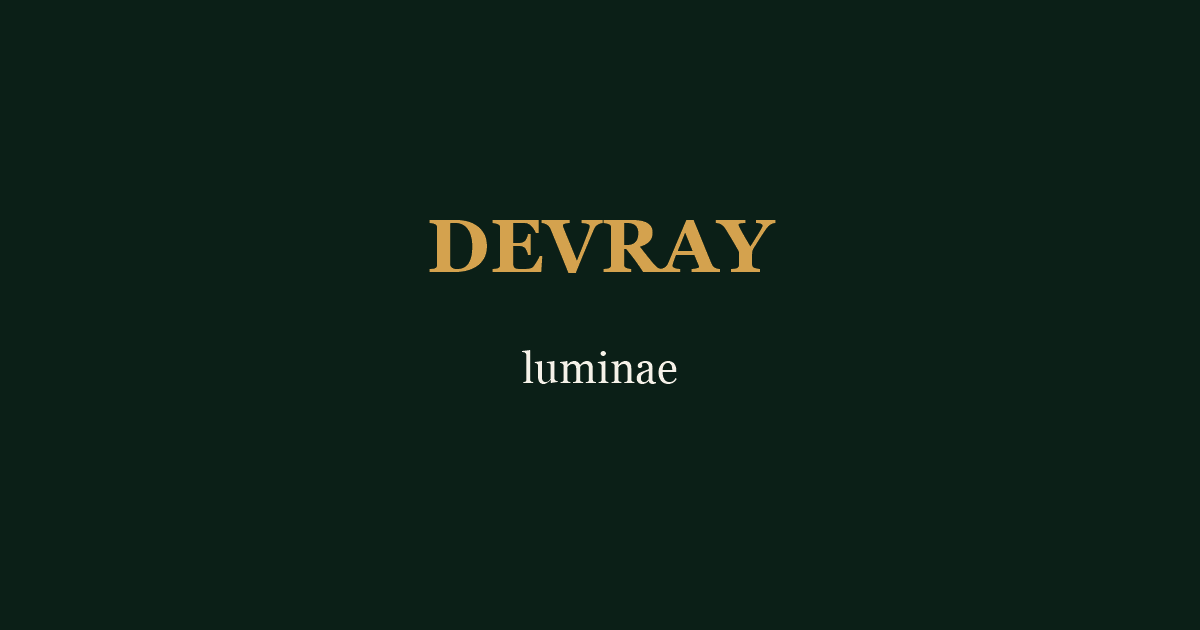
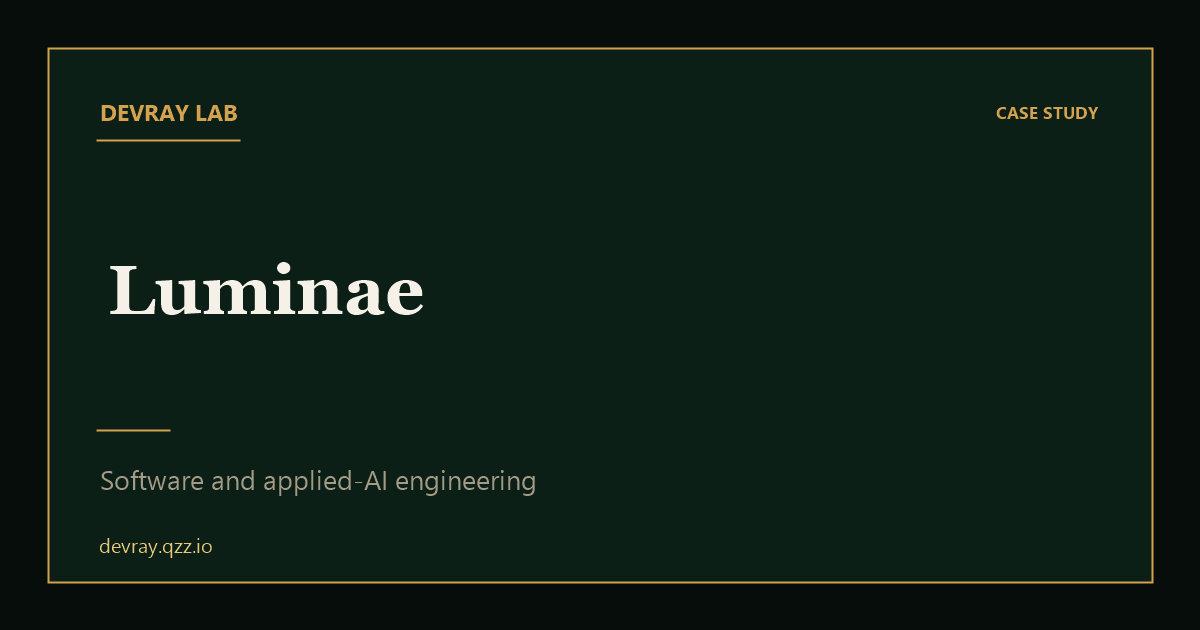
fix: clean case-study placeholders and remove footer build credit
Regenerates all 15 project visuals as intentional branded case-study cards without pending copy, removes the Next.js/Tailwind build credit from the footer, and disables the dev overlay indicator.

diff --git a/src/components/Footer.tsx b/src/components/Footer.tsx
@@ -168,11 +168,7 @@ export default function Footer() {
 
         <div className="border-t border-ink-700 mt-10 pt-8 flex flex-col sm:flex-row items-center justify-between gap-4 text-sm text-parchment-500">
           <p>&copy; {new Date().getFullYear()} DevRay. All rights reserved.</p>
-          <div className="flex flex-wrap items-center justify-center gap-4">
-            <Link href="/privacy" className="hover:text-ochre-300 transition-colors">Privacy</Link>
-            <span aria-hidden="true">·</span>
-            <span>Built with Next.js, TypeScript and Tailwind CSS</span>
-          </div>
+          <Link href="/privacy" className="hover:text-ochre-300 transition-colors">Privacy</Link>
         </div>
       </div>
     </footer>

diff --git a/next.config.js b/next.config.js
@@ -2,6 +2,7 @@
 const nextConfig = {
   reactStrictMode: true,
   poweredByHeader: false,
+  devIndicators: false,
   images: {
     formats: ['image/avif', 'image/webp'],
   },

diff --git a/docs/DEVRAY_REDESIGN_QA.md b/docs/DEVRAY_REDESIGN_QA.md
@@ -99,7 +99,7 @@ Full details: `docs/DEVRAY_CONTENT_VERIFICATION.md`.
 1. **Live Formspree delivery** — a real submission would send an actual inquiry. The endpoint, validation and failure handling are implemented; delivery should be tested with a safe test form before launch.
 2. **Live Groq response** — `GROQ_API_KEY` is not present locally. The missing-key path and input validation are tested.
 3. **Visual/Lighthouse/screen-reader QA** — not available in this environment.
-4. **Real project screenshots** — all 15 visuals are branded placeholders explicitly marked as pending.
+4. **Real project screenshots** — all 15 visuals are clean branded placeholders; replacement assets are tracked in the content verification doc.
 5. **Email deliverability** — `info@devray.site` was not sent a test message.
 6. **Full social-profile sweep** — LinkedIn and some profile destinations were not fetched due to bot/redirect behaviour; exact URLs are used.
 

diff --git a/README.md b/README.md
@@ -42,7 +42,7 @@ Open http://localhost:3000.
 - `src/data/index.ts` is the canonical source for navigation, services, the 15-project case-study catalogue, homepage supporting content, FAQs, process steps, education, certifications and founder profile.
 - `src/types/index.ts` defines the content model.
 - `src/app/work/[slug]/page.tsx` prerenders every project in the catalogue via `generateStaticParams`.
-- `public/projects/` currently contains branded placeholder visuals, not authentic product captures. Replace them with real screenshots when available; the placeholders are explicitly labelled as pending rather than fabricating product UI.
+- `public/projects/` currently contains clean branded placeholder visuals, not authentic product captures. Replace them with real screenshots when available; missing assets are tracked in `docs/DEVRAY_CONTENT_VERIFICATION.md` rather than fabricating product UI.
 
 ## Design system
 

diff --git a/docs/DEVRAY_REDESIGN_AUDIT.md b/docs/DEVRAY_REDESIGN_AUDIT.md
@@ -70,7 +70,7 @@ The repository already had a partial Forest-Ink / Gold-Ochre redesign: tokens, F
 
 ## 3. Known limitations
 
-- All project visuals are branded placeholders. They are explicitly labelled "Case-study visual pending" and are not fabricated product UI. Real 1200×630 captures are still needed.
+- All project visuals are clean branded placeholders. They are not fabricated product UI; real 1200×630 captures are still needed and tracked in `DEVRAY_CONTENT_VERIFICATION.md`.
 - `public/og-image.png` is a generated brand card, not a product screenshot.
 - Real Formspree delivery was not exercised to avoid sending a live inquiry. Validation, origin, honeypot and failure paths were tested.
 - Live Groq responses were not tested because `GROQ_API_KEY` is not set locally; the missing-key path returns 503 with no secret leakage.

diff --git a/docs/DEVRAY_REDESIGN_SUMMARY.md b/docs/DEVRAY_REDESIGN_SUMMARY.md
@@ -77,7 +77,7 @@ Added: audience/problem strip; four core services with buyable outcomes and cont
 
 ## 5. Remaining limitations
 
-1. All 15 project visuals are branded placeholders labelled as pending; replace with authentic 1200×630 captures.
+1. All 15 project visuals are clean branded placeholders; replace with authentic 1200×630 captures.
 2. Confirm `GROQ_API_KEY` in Vercel before relying on `/chat`.
 3. Send one controlled test inquiry through the Formspree form and confirm delivery.
 4. Run Lighthouse, keyboard/screen-reader and 320/375/768/1024/1440 visual checks.

diff --git a/docs/DEVRAY_CONTENT_VERIFICATION.md b/docs/DEVRAY_CONTENT_VERIFICATION.md
@@ -76,7 +76,7 @@ No cloud-partner status is claimed from individual certifications.
 
 ## 6. Screenshot and media needs
 
-All 15 project visuals are branded placeholders (1200×630) and are labelled as pending in the case studies. They are not fabricated product UI.
+All 15 project visuals are clean branded placeholders (1200×630). They are not fabricated product UI; replacement needs are tracked here.
 
 Replace with authentic 1200×630 captures when available:
 
